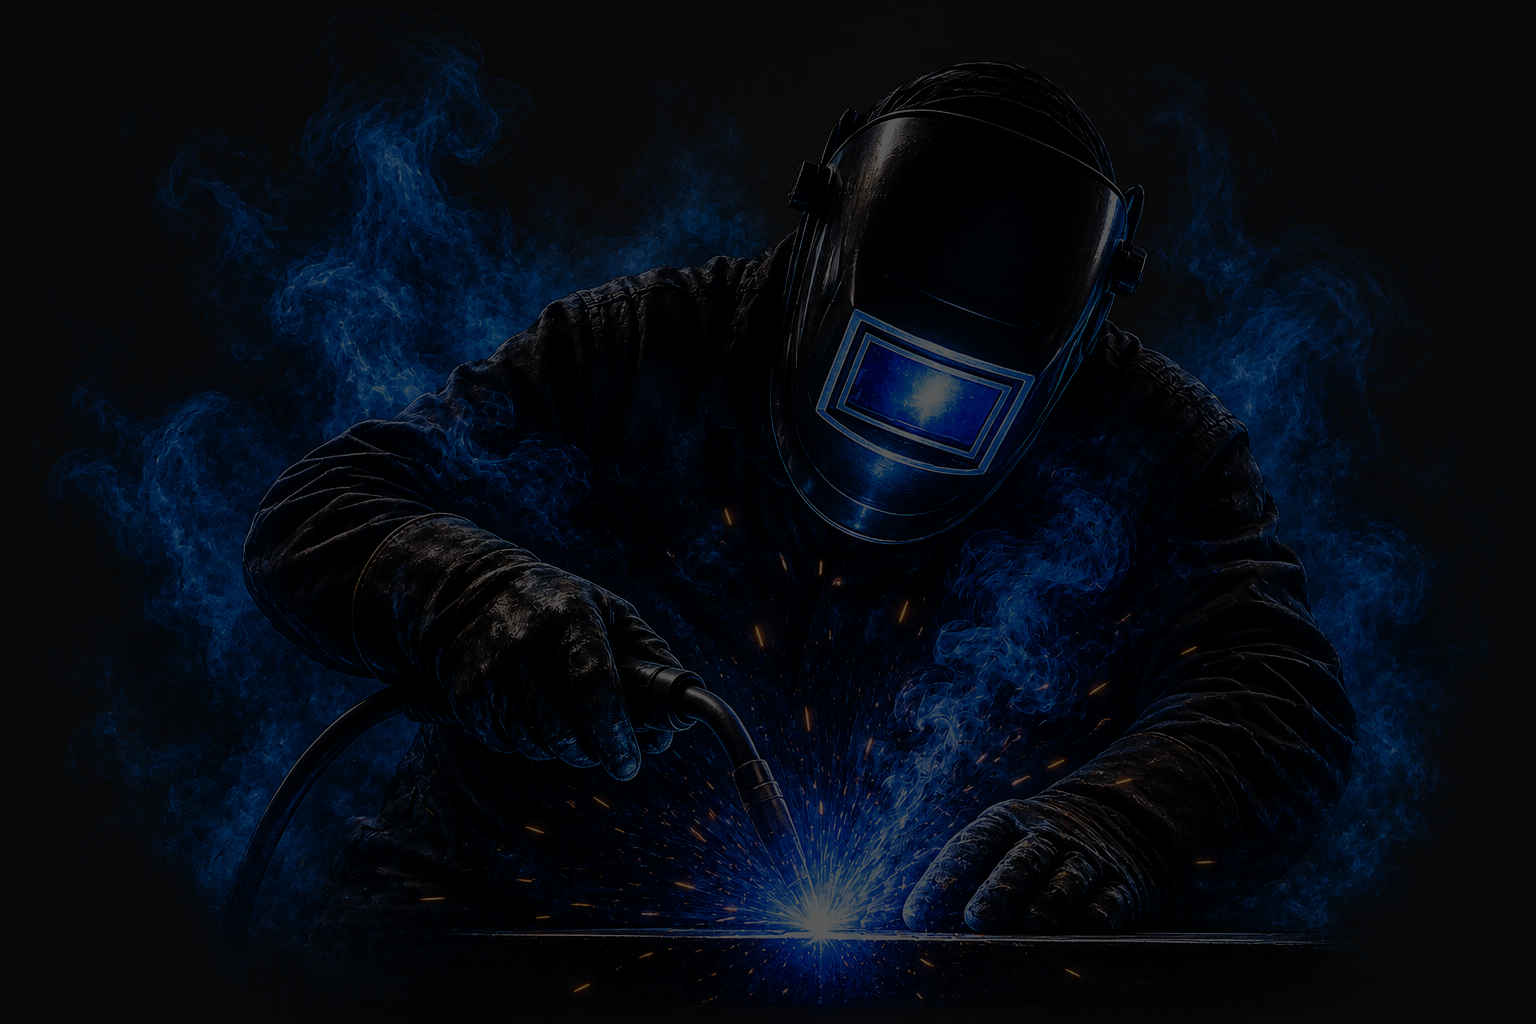
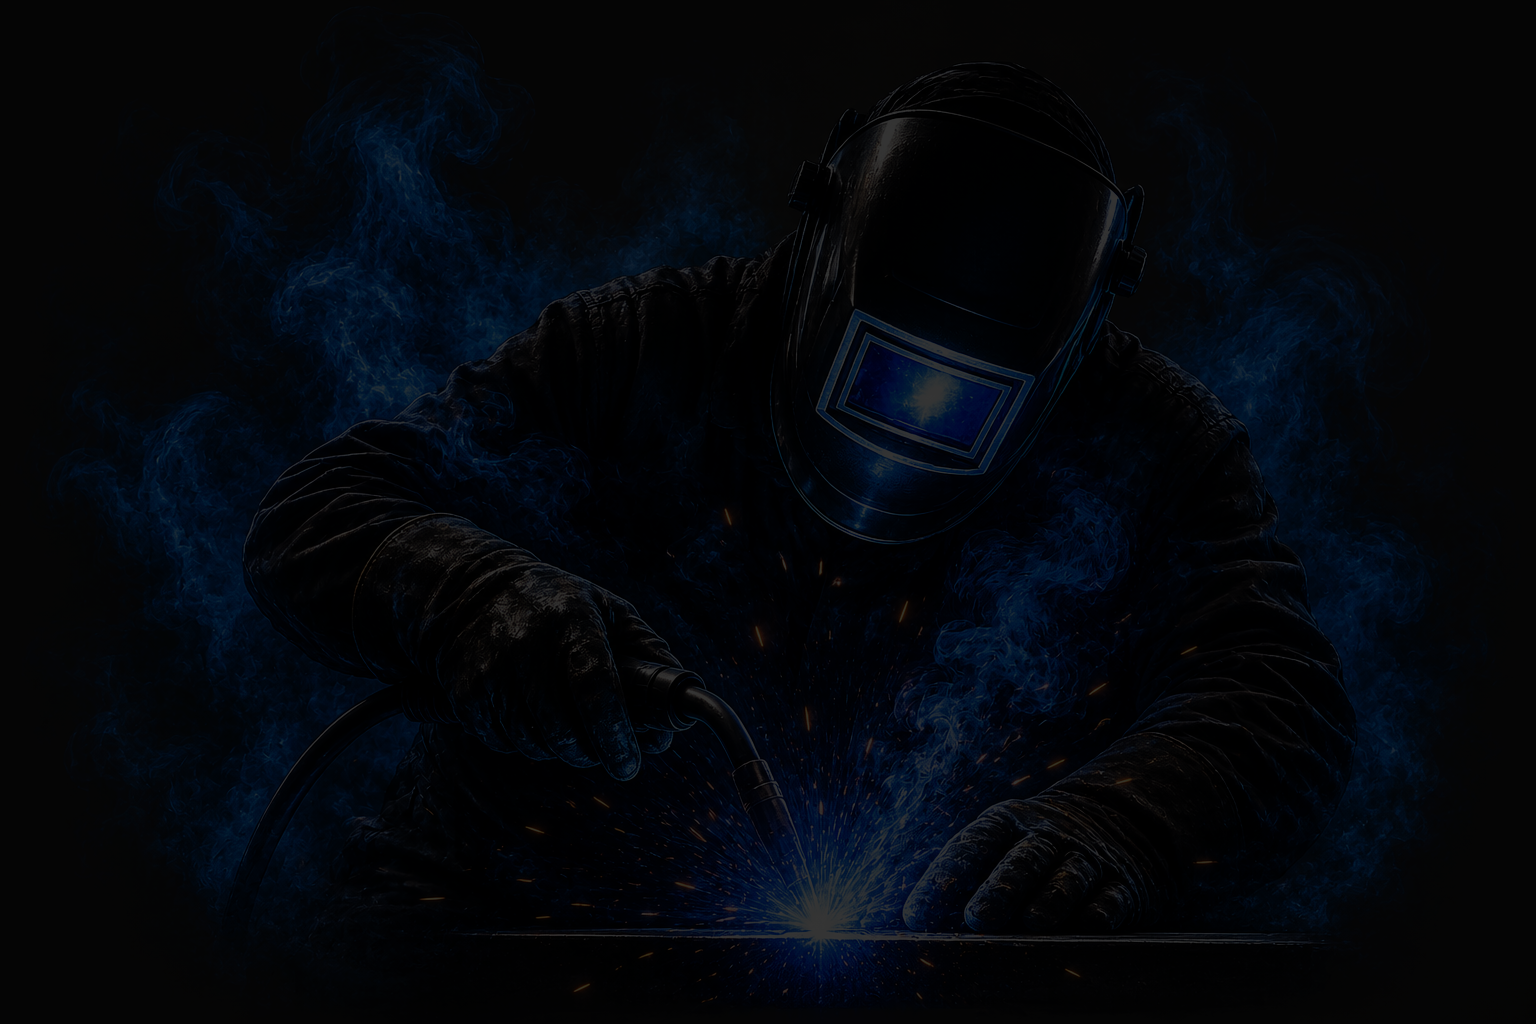
feat: carrosel de vídeos

diff --git a/style.css b/style.css
@@ -1,106 +1,198 @@
 @import url('https://fonts.googleapis.com/css2?family=Bebas+Neue&display=swap');
+@import url('https://fonts.googleapis.com/css2?family=Montserrat:wght@400;500;600;700;800&display=swap');
 
-:root{
+:root {
 
-    --fundo: #080808;
-    --azulEscuro: #1a5eff;
-    --azulClaro: #3d7dff;
-    --prata: #d9d9d9;
-    --cinzaEscuro: #2b2b2b;
-    --verdePadrao: #25d366;
-}
-body{
-    background: #000000;
-
+  --fundo: #080808;
+  --azulEscuro: #1a5eff;
+  --azulClaro: #3d7dff;
+  --prata: #d9d9d9;
+  --cinzaEscuro: #2b2b2b;
+  --verdePadrao: #25d366;
+  --preto: #000000;
 }
 
-#grade-first{
-background-image: linear-gradient(
-      to bottom, 
-      rgba(0, 0, 0, 1) 0%,    
-      rgba(0, 0, 0, 0) 20%,   
-      rgba(0, 0, 0, 0) 80%,     
-      rgba(0, 0, 0, 1) 100%   
-    ),  url(/imgs/e96c741c-d41a-45d5-897f-655460a8302d.png);
+body {
+  background: var(--preto);
 
-    height: 500px;
 }
-#grade-first-textos{
 
-color: var(--prata);
- font-family: 'Bebas Neue', sans-serif;
+#grade-first {
+  background-image: linear-gradient(to bottom,
+      rgba(0, 0, 0, 1) 0%,
+      rgba(0, 0, 0, 0) 20%,
+      rgba(0, 0, 0, 0) 80%,
+      rgba(0, 0, 0, 1) 100%), url(/imgs/e96c741c-d41a-45d5-897f-655460a8302d.png);
+  background-size: cover;
+  background-position: center;
+  background-repeat: no-repeat;
+  padding-top: 2%;
+  min-height: 550px;
+  width: 100%;
+}
+
+#grade-first-textos {
+
+  color: var(--prata);
+  font-family: 'Bebas Neue', sans-serif;
   flex-direction: column;
-    gap: 0; 
-    padding-top: 10%;
-    padding-left: 3%;
+  gap: 0;
+  padding-top: 15%;
+  padding-left: 3%;
 }
 
-#grade-first-textos p{
-    font-family: "Arial", sans-serif;
-     margin: 0%;
-         line-height: 1;
-
-}
-#grade-first-textos h1{
-font-size: 100px;
-    line-height: 1;
-
- margin: 0%;
-}
-#grade-first-textos h3{
-font-size: 40px;
-color: var(--azulEscuro);
- margin: 0%;
-     line-height: 1;
-
-
-}
-#grade-second{
-    border-color: var(azulEscuro);
-    color: var(--prata);
-}
-#grade-second h3{
-color: var(--azulEscuro);
+#grade-first-textos p {
+  font-family: 'Montserrat', sans-serif;
+  margin: 0%;
+  line-height: 1;
 
 }
 
-#navegacao{
-justify-content: center;
-display:flex;
-font-family: 'Bebas Neue', sans-serif;
-font-size: 25px;
+#grade-first-textos h1 {
+  font-size: 100px;
+  line-height: 1;
+
+  margin: 0%;
+}
+
+#grade-first-textos h3 {
+  font-size: 40px;
+  color: var(--azulEscuro);
+  margin: 0%;
+  line-height: 1;
+
 
 }
-#navegacao ul{
- list-style: none;
+
+#grade-second {
+  border-color: var(azulEscuro);
+  color: var(--prata);
+  height: 300px;
+  margin-top: 100px;
+
+  background: linear-gradient(to bottom,
+      rgba(0, 0, 0, 1) 0%,
+      rgba(214, 5, 5, 0) 20%,
+      rgba(0, 0, 0, 0) 80%,
+      rgba(0, 0, 0, 1) 100%);
+
+}
+
+#grade-second h3 {
+  color: var(--azulEscuro);
+
+}
+
+#navegacao {
+  justify-content: space-between;
+  display: flex;
+  font-family: 'Bebas Neue', sans-serif;
+  font-size: 25px;
+  width: 100%;
+
+
+}
+
+
+#navegacao ul {
+  list-style: none;
   margin: 10px;
-  padding: 10px;
-  display: flex; 
-;
+  display: flex;
 
 }
 
 #navegacao a {
   display: block;
-color: var(--prata);
+  color: var(--prata);
   padding: 15px 20px;
   text-decoration: none;
-  margin-right: 50px; 
+  margin-right: 50px;
 }
 
-#navegacao ul li a:hover { 
+#navegacao p {
+
+  color: var(--prata);
+  font-family: 'Montserrat', sans-serif;
+  margin: 10px;
+  padding: 10px;
+}
+
+#navegacao ul li a:hover {
   color: var(--azulEscuro);
-  border-bottom:3px solid var(--azulClaro);
-    font-weight: bold;
+  border-bottom: 3px solid var(--azulClaro);
+  font-weight: bold;
 
 }
+
 #navegacao a:active {
-    color: var(--azulEscuro);
+  color: var(--azulEscuro);
 
 }
-#navegacao a:focus {
-    color: var(--azulEscuro);
-    border-bottom: 3px solid var(--azulClaro);
-      font-weight: bold;
 
+#navegacao a:focus {
+  color: var(--azulEscuro);
+  border-bottom: 3px solid var(--azulClaro);
+  font-weight: bold;
+
+}
+
+#grade-second-textos, #grade-third-textos, #grade-fourth-textos {
+  color: var(--prata);
+  display: flex;
+  justify-content: center;
+  flex-direction: column;
+  height: fit-content;
+  align-items: center;
+  gap: 0px;
+  height: 140px;
+}
+#grade-second, #grade-third, #grade-fourth {
+
+height: fit-content + 100px;
+}
+
+#grade-second-textos h1, #grade-third-textos h1, #grade-fourth-textos h1 {
+  font-size: 50px;
+  font-family: 'Bebas Neue', sans-serif;
+  line-height: 1;
+  margin: 0%;
+
+}
+
+#grade-second-textos p, #grade-third-textos p, #grade-fourth-textos p {
+  margin: 0%;
+  line-height: 1.2;
+  font-family: 'Montserrat', sans-serif;
+
+
+}
+
+.carrossel-track {
+
+  display: flex;
+  gap: 30px;
+}
+
+.carrossel-container {
+  overflow-x: scroll;
+  overflow-y: hidden;
+}
+
+.carrossel-container::-webkit-scrollbar {
+  height: 8px;
+}
+
+.carrossel-container::-webkit-scrollbar-track {
+  background: var(--preto);
+}
+
+.carrossel-container::-webkit-scrollbar-thumb {
+  background: var(--azulEscuro);
+  border-radius: 8px;
+}
+
+.carrossel-item {
+
+  border: 3px solid;
+  border-radius: 10px;
 }

diff --git a/index.html b/index.html
@@ -4,24 +4,27 @@
 <head>
     <meta charset="UTF-8">
     <meta name="viewport" content="width=device-width, initial-scale=1.0">
-    <title>Magrão Rocha - Soldagem Industrial</title>
+    <title>Wendel Rocha - Soldagem Industrial</title>
     <link rel="stylesheet" href="style.css">
 
 
 </head>
 
 <body>
+   
     <nav id="navegacao">
+        <p> Instrutor Wendel Rocha </p>
         <ul>
-            <li><a href="id">INÍCIO</a></li>
+            <li><a href="#navegacao">INÍCIO</a></li>
             <li><a href="#grade-second">SOBRE</a></li>
-            <li><a href="#home">VIDEOS</a></li>
+            <li><a href="#grade-third">VIDEOS</a></li>
             <li><a href="#home">CONTATOS</a></li>
         </ul>
     </nav>
+    </div>
     <div id="grade-first">
     <div id="grade-first-textos">
-        <H3> /// APRENDA</H3>
+        <H3> APRENDA</H3>
         <h1>SOLDAGEM INDUSTRIAL</h1>
         <p>Cursos, treinamentos, consultoria e dicas para quem deseja inciar ou evoluir na área de soldagem.</p>
     </div>
@@ -30,28 +33,56 @@
     </div>
     </div>
 <div id="grade-second">
+
+<div id="grade-second-textos"> 
  <!-- <h3>/// QUEM É </h3> -->
 <H1>WENDEL FERNANDES</H1>
-<P> Profissional especializado em soldagem, com XX anos de experiência na indústria e apaixonado por ensinar. <br> 
+<P> Profissional especializado em soldagem, com mais de 20 anos de experiência na indústria e apaixonado por ensinar. <br> 
 Já formou centenas de profissionais técnicos, através do conhecimento aplicado na prática.</P>
 </div>
+</div>  
 
-<div class="carousel-container">
-  <div class="carousel-track">
-    <div class="carousel-item">
-<iframe width="560" height="315" src="https://www.youtube.com/embed/lw8qFd00DDI?si=jSssfL9W7Eo-xyP0" title="Soldagem 2F com Eletrodo 7018: Ponteamento, Regulagem e Técnica da Unha" frameborder="0" allow="accelerometer; autoplay; clipboard-write; encrypted-media; gyroscope; picture-in-picture; web-share" referrerpolicy="strict-origin-when-cross-origin" allowfullscreen></iframe>
+<div id="grade-third"> 
+<div id="grade-third-textos">
+
+    <h1> VÍDEOS NO YOUTUBE </h1>
+    <p> Acompanhe dicas, demonstrações, e conteúdos técnicos diretamente do meu canal no Youtube.</p>
+</div>
+
+<div class="carrossel-container">
+  <div class="carrossel-track">
+    <div class="carrossel-item">
+<iframe width="560" height="315" src="https://www.youtube.com/embed/3G_DWOuT8zk?si=krFRQEvI_-9d0PHZ" title="YouTube video player" frameborder="0" allow="accelerometer; autoplay; clipboard-write; encrypted-media; gyroscope; picture-in-picture; web-share" referrerpolicy="strict-origin-when-cross-origin" allowfullscreen></iframe>
     </div>
-    <div class="carousel-item">
+    <div class="carrossel-item">
 <iframe width="560" height="315" src="https://www.youtube.com/embed/3OOuqeI0bAU?si=3Gt_0w6bZq5mfkWU" title="
 Transformando Oficinas com Projetos Criados no SketchUp" frameborder="0" allow="accelerometer; autoplay; clipboard-write; encrypted-media; gyroscope; picture-in-picture; web-share" referrerpolicy="strict-origin-when-cross-origin" allowfullscreen></iframe>
     </div>
-    <div class="carousel-item">
+    <div class="carrossel-item">
+<iframe width="560" height="315" src="https://www.youtube.com/embed/XIMXEUZn5WA?si=-Olj-ko_QOvgVJUA" title="YouTube video player" frameborder="0" allow="accelerometer; autoplay; clipboard-write; encrypted-media; gyroscope; picture-in-picture; web-share" referrerpolicy="strict-origin-when-cross-origin" allowfullscreen></iframe>
+    </div>
+     <div class="carrossel-item">
         <iframe width="560" height="315" src="https://www.youtube.com/embed/yLjbkFmzFbk?si=XrXZkhaQZPqtKYh7" title="Fundamentos da Soldagem TIG na prática" frameborder="0" allow="accelerometer; autoplay; clipboard-write; encrypted-media; gyroscope; picture-in-picture; web-share" referrerpolicy="strict-origin-when-cross-origin" allowfullscreen></iframe>
+    </div>
+     <div class="carrossel-item">
+<iframe width="560" height="315" src="https://www.youtube.com/embed/703yhYtr3mA?si=5RcFj-DB5c2AEZgM" title="YouTube video player" frameborder="0" allow="accelerometer; autoplay; clipboard-write; encrypted-media; gyroscope; picture-in-picture; web-share" referrerpolicy="strict-origin-when-cross-origin" allowfullscreen></iframe>
+    </div>
+     <div class="carrossel-item">
+<iframe width="560" height="315" src="https://www.youtube.com/embed/fuCTWDTPlsI?si=oZ2OcqJXS8Mj4ni1" title="YouTube video player" frameborder="0" allow="accelerometer; autoplay; clipboard-write; encrypted-media; gyroscope; picture-in-picture; web-share" referrerpolicy="strict-origin-when-cross-origin" allowfullscreen></iframe>
     </div>
   </div>
 </div>
+</div>
+<div id="grade-fourth">
+    <div id="grade-fourth-textos">
+<h1>CONTATOS</h1>
 
-    
+
+    </div>
+
+
+</div>
+     
 </body>
 
 </html>
